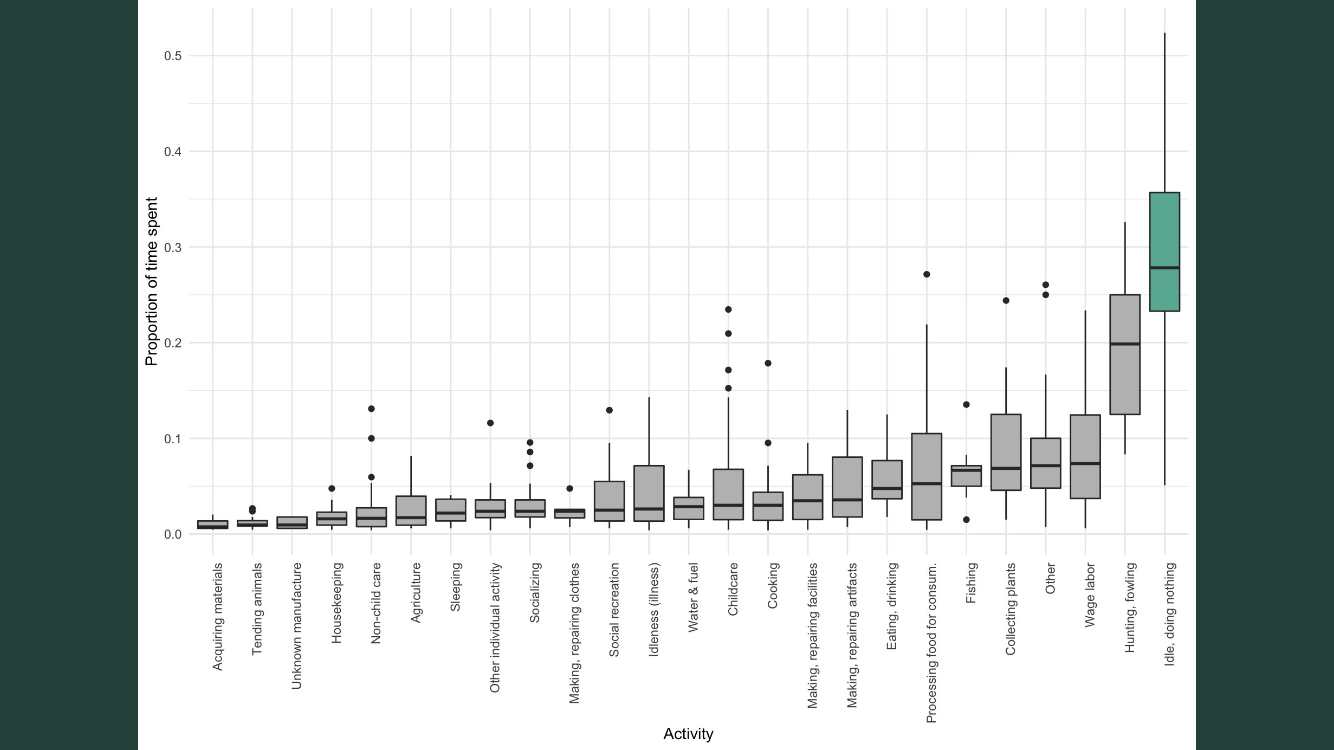
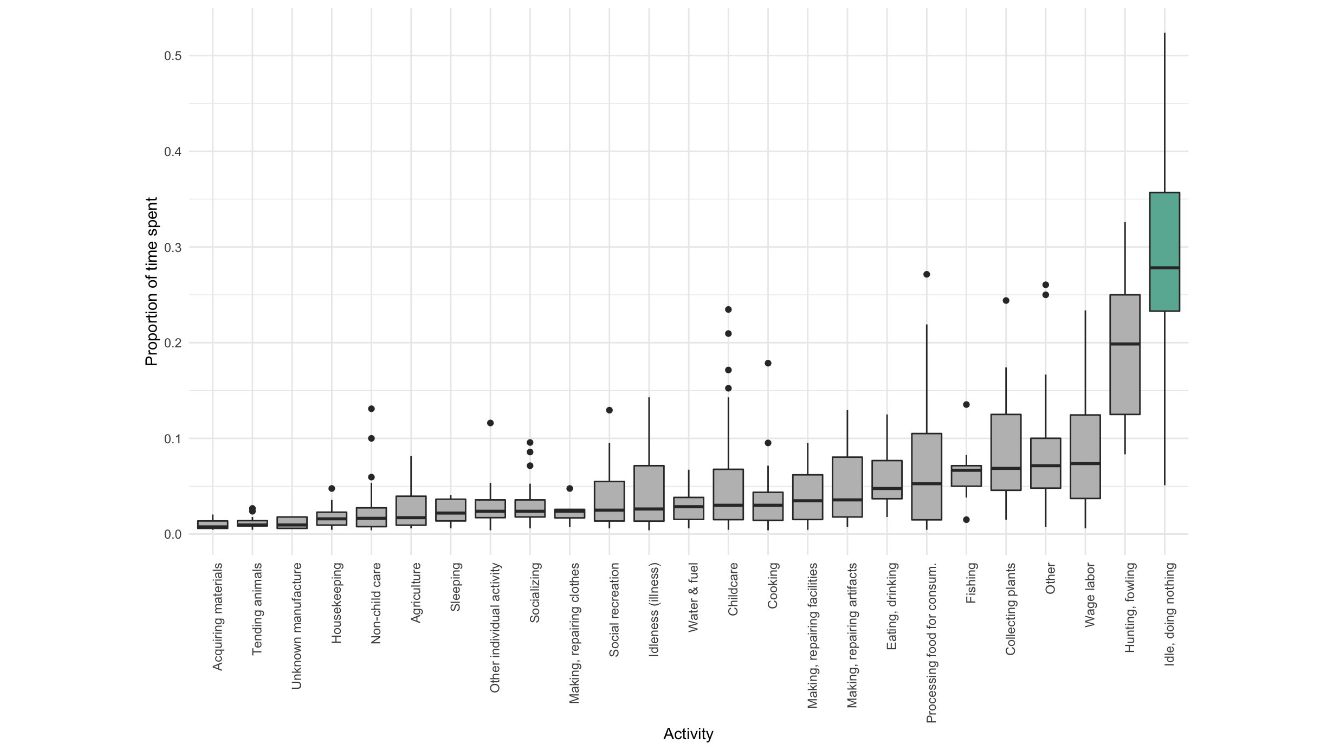
Size vibes images on guzey's power-of-two ladder
The page normalised every image to one display area, which is girl.surgery's
algorithm, not guzey's. Uniform area reads as a grid: the spread between the
largest and smallest image was 1.6x.

guzey instead picks the coarsest power-of-two reduction that fits an image
under a target area. The quantization is the point — two images 20% apart in
native resolution can land a full rung, 4x in area, apart. Spread is now 3.6x.

Weights now multiply area after the rung is chosen rather than setting an
absolute one, so they stay a smooth knob instead of an all-or-nothing rung
jump. Retuned every hint to match, and dropped hints from the big-text memes
that read fine small — most images carrying no hint is what gives the page
its range.

Also rewrote the packer to grow its search region up from a small window, the
way both reference pages do. It was seeding at maxBottom + h and scattering
images across the whole canvas, leaving the page far airier than either
reference.

Image fixes:
- accountability_partner.jpg was capped at RGB 178/161/179 and skewed blue, so
  the projected slide rendered as a grey smudge next to memes that are
  actually white. Cropped the bezel and stretched each channel onto the full
  range.
- idle_doing_nothing.PNG lost its letterbox bars, so its weight drops 2.0 to
  1.5 — the chart now fills the frame it was already being given.
- berlin_facebook.png added at 1.8. The weight protects the joke, not just
[…]

Changed region(s): [[0.8913, 0.0, 1.0, 1.0], [0.0, 0.0, 0.1229, 1.0]]

diff --git a/_layouts/vibes.html b/_layouts/vibes.html
@@ -9,28 +9,27 @@ layout: shell
   var IMG_BASE = "/assets/vibes/";
   var PADDING = 8;
 
-  // Sizing follows guzey.com/vibes: pick a scale factor that normalises each image
-  // toward a target display area, but anchor it to the image's own resolution and
-  // bound it. Anchoring to native size is what keeps the page from looking like a
-  // uniform grid — images land at a range of sizes rather than all the same one.
-  var GOAL_AREA = 126000;   // target display px² (matches guzey's median)
-  var MAX_AREA = 235000;    // nothing may dominate the canvas
-  var MIN_SCALE = 0.125;    // never shrink past 1/8 — text dies below that
-  var MAX_SCALE = 1.0;      // never upscale past native — that just blurs
+  // Sizing follows guzey.com/vibes: pick the coarsest power-of-two reduction that
+  // brings an image under a target display area. The quantized ladder is the whole
+  // point — girl.surgery normalises every image to one exact area instead, and the
+  // result reads as a grid. Here two images 20% apart in native resolution can land
+  // a full rung, 4x in area, apart, which is what makes the canvas look scattered.
+  var GOAL_AREA = 600 * 400;      // guzey's target display area
+  var RUNGS = [1, 2, 4, 8];       // never upscale, never shrink past 1/8 of native
 
   function sizeFor(item, canvasW) {
-    var weight = item.weight || 1;
-    var scale = Math.sqrt(GOAL_AREA * weight / (item.width * item.height));
-    scale = Math.max(MIN_SCALE, Math.min(MAX_SCALE, scale));
+    var area = item.width * item.height;
+    var divisor = RUNGS[RUNGS.length - 1];
+    for (var i = 0; i < RUNGS.length; i++) {
+      if (area / (RUNGS[i] * RUNGS[i]) <= GOAL_AREA) { divisor = RUNGS[i]; break; }
+    }
 
+    // A weight is a readability override applied on top of whatever rung the image
+    // landed on, so it stays a smooth knob rather than an all-or-nothing rung jump.
+    // Rungs are 4x apart in area, so weight 4.0 is exactly one rung bigger.
+    var scale = Math.sqrt(item.weight || 1) / divisor;
     var w = item.width * scale;
     var h = item.height * scale;
-
-    var cap = MAX_AREA * weight;
-    if (w * h > cap) {
-      var k = Math.sqrt(cap / (w * h));
-      w *= k; h *= k;
-    }
 
     var limit = canvasW - PADDING * 2;
     if (w > limit) { h *= limit / w; w = limit; }
@@ -47,19 +46,22 @@ layout: shell
     );
   }
 
-  function tryPlace(img, placed, canvasW, maxBottom) {
+  function tryPlace(img, placed, canvasW) {
     var w = img.displayW;
     var h = img.displayH;
     var maxX = Math.max(0, canvasW - w);
-    var yRange = Math.max(maxBottom + h + PADDING, h * 2);
 
-    // Random placement, retried against a steadily taller canvas. Growing the
-    // region rather than giving up means no image is ever silently dropped.
-    for (var round = 0; round < 40; round++) {
-      for (var i = 0; i < 150; i++) {
+    // Grow the search region up from a small window, the way guzey and girl.surgery
+    // both do, instead of scattering across the whole canvas so far. Every image
+    // tries the tightest region that could hold it first, so it fills gaps left by
+    // earlier images rather than starting a new sparse row below them.
+    var region = Math.max(600, h + PADDING);
+
+    for (var round = 0; round < 400; round++) {
+      for (var i = 0; i < 50; i++) {
         var candidate = {
           x: Math.floor(Math.random() * (maxX + 1)),
-          y: Math.floor(Math.random() * yRange),
+          y: Math.floor(Math.random() * (region - h + 1)),
           w: w,
           h: h
         };
@@ -69,9 +71,15 @@ layout: shell
         }
         if (ok) return candidate;
       }
-      yRange += h;
+      region += 50;
     }
-    return { x: 0, y: maxBottom + PADDING, w: w, h: h };
+
+    // Unreachable in practice; guarantees no image is ever silently dropped.
+    var bottom = 0;
+    for (var k = 0; k < placed.length; k++) {
+      bottom = Math.max(bottom, placed[k].y + placed[k].h);
+    }
+    return { x: 0, y: bottom + PADDING, w: w, h: h };
   }
 
   function shuffle(arr) {
@@ -105,7 +113,7 @@ layout: shell
       var maxBottom = 0;
 
       order.forEach(function (item) {
-        var pos = tryPlace(item, placed, canvasW, maxBottom);
+        var pos = tryPlace(item, placed, canvasW);
         placed.push(pos);
         if (pos.y + pos.h > maxBottom) maxBottom = pos.y + pos.h;
 

diff --git a/vibes-guide.md b/vibes-guide.md
@@ -21,9 +21,11 @@ None — uses `uv` to manage dependencies inline.
    ```yaml
    dense_spreadsheet.png: 2.4
    ```
-   The number multiplies the image's display area. 1.0 is the default; 2.0 is twice
-   the area, i.e. about 1.4x wider and taller. Rough guide: dense table or diagram
-   2.0-2.5, tweet or meme with small text 1.3-1.5, photo or big-text poster 1.0.
+   The number multiplies the image's display area after its rung is picked. 1.0 is the
+   default; 2.0 is twice the area, i.e. about 1.4x wider and taller; rungs are 4x apart
+   in area, so 4.0 is exactly one rung bigger. Rough guide: dense table or chart
+   2.0-2.5, tweet or meme with small text 1.5-2.0, photo or big-text poster nothing at
+   all — leaving most images unhinted is what gives the page its range of sizes.
 
 4. Regenerate the metadata JSON:
    ```
@@ -40,18 +42,27 @@ None — uses `uv` to manage dependencies inline.
 
 - `lister.py` reads every image in `assets/vibes/`, records its dimensions, merges any URLs from `vibes_sources.yml` and size hints from `vibes_sizes.yml`, and writes `assets/vibes/image_widths_heights.json`.
 - The vibes page (`/vibes/`) fetches that JSON at load time and places images in a collision-detected freeform layout.
-- Sizing follows [guzey.com/vibes](https://guzey.com/vibes/): each image gets a scale
-  factor that pulls it toward a common display area (126,000 px², matching guzey's
-  median), bounded to never shrink past 1/8 of native or upscale past 1x, and capped so
-  nothing dominates the canvas. Anchoring to native resolution rather than forcing a
-  fixed size is what keeps the page from reading as a uniform grid.
+- Sizing follows [guzey.com/vibes](https://guzey.com/vibes/): each image is shown at
+  1/1, 1/2, 1/4 or 1/8 of native resolution — the coarsest reduction that brings it
+  under a 240,000 px² target. The quantization is the point. Two images 20% apart in
+  native resolution can land a full rung apart, so the canvas holds a 614px-wide meme
+  next to a 240px one instead of reading as a grid of equal tiles.
+  [girl.surgery](https://girl.surgery/website_vibes/) normalises every image to one
+  exact area instead; that page's images all come out the same size, and so did this
+  one before.
 - Pixel dimensions can't tell you how big an image *needs* to be — a 3000px photo of a
   poster reads fine small, a 2200px spreadsheet doesn't read at any size that fits on a
   canvas. That's what `vibes_sizes.yml` is for, and why every image links to its
   full-size file (or its source URL, if `vibes_sources.yml` has one) in a new tab.
 - **Crop dead space before reaching for a size hint.** `tiktok_coding.png` was 41% black
   letterbox bars; cropping it to its content box made the caption readable while using
-  *less* room on the canvas than bumping its weight did.
+  *less* room on the canvas than bumping its weight did. When you do crop, lower the
+  weight to match — `idle_doing_nothing.PNG` went from 2.0 to 1.5 after its bars came
+  off, because the chart then filled the frame it was already being given.
+- **Photos of screens usually need a white-point fix, not just a crop.** A projector or
+  monitor shot rarely gets above ~70% brightness and skews blue, so it renders as a grey
+  smudge next to memes that are actually white. `accountability_partner.jpg` was capped
+  at RGB 178/161/179 before its channels were stretched onto the full range.
 
 ## Adding a new wide page
 
